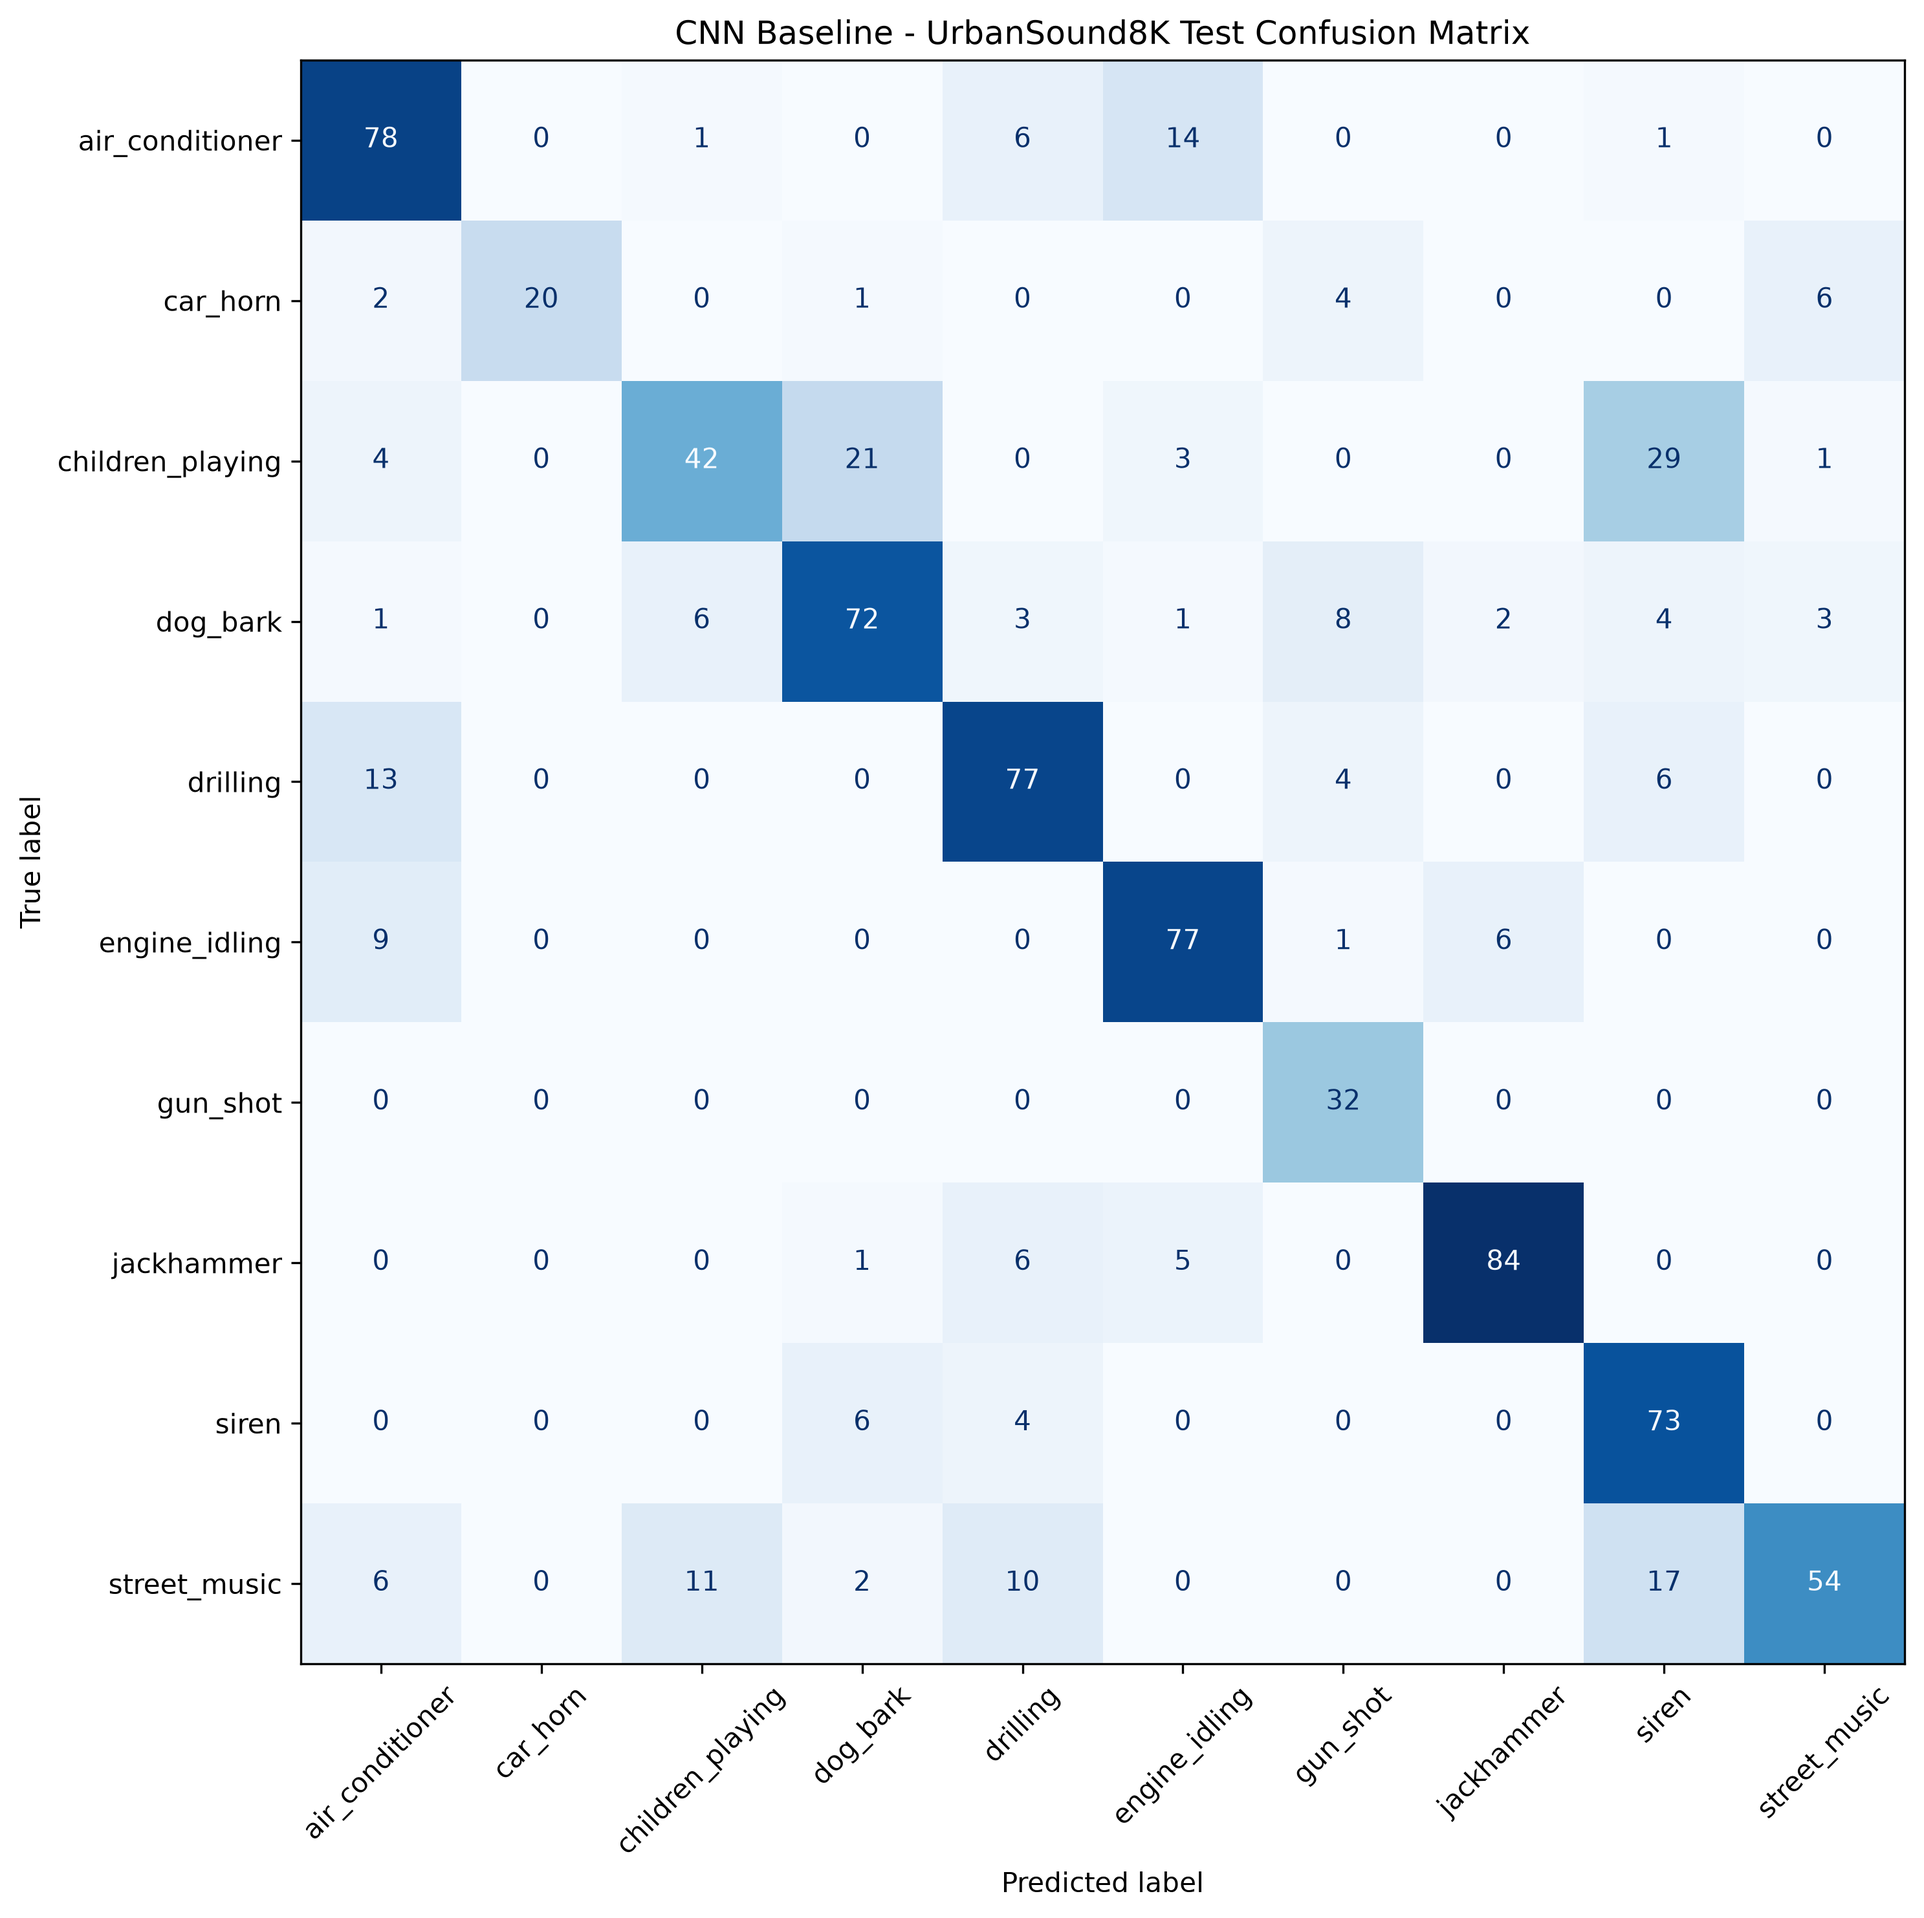
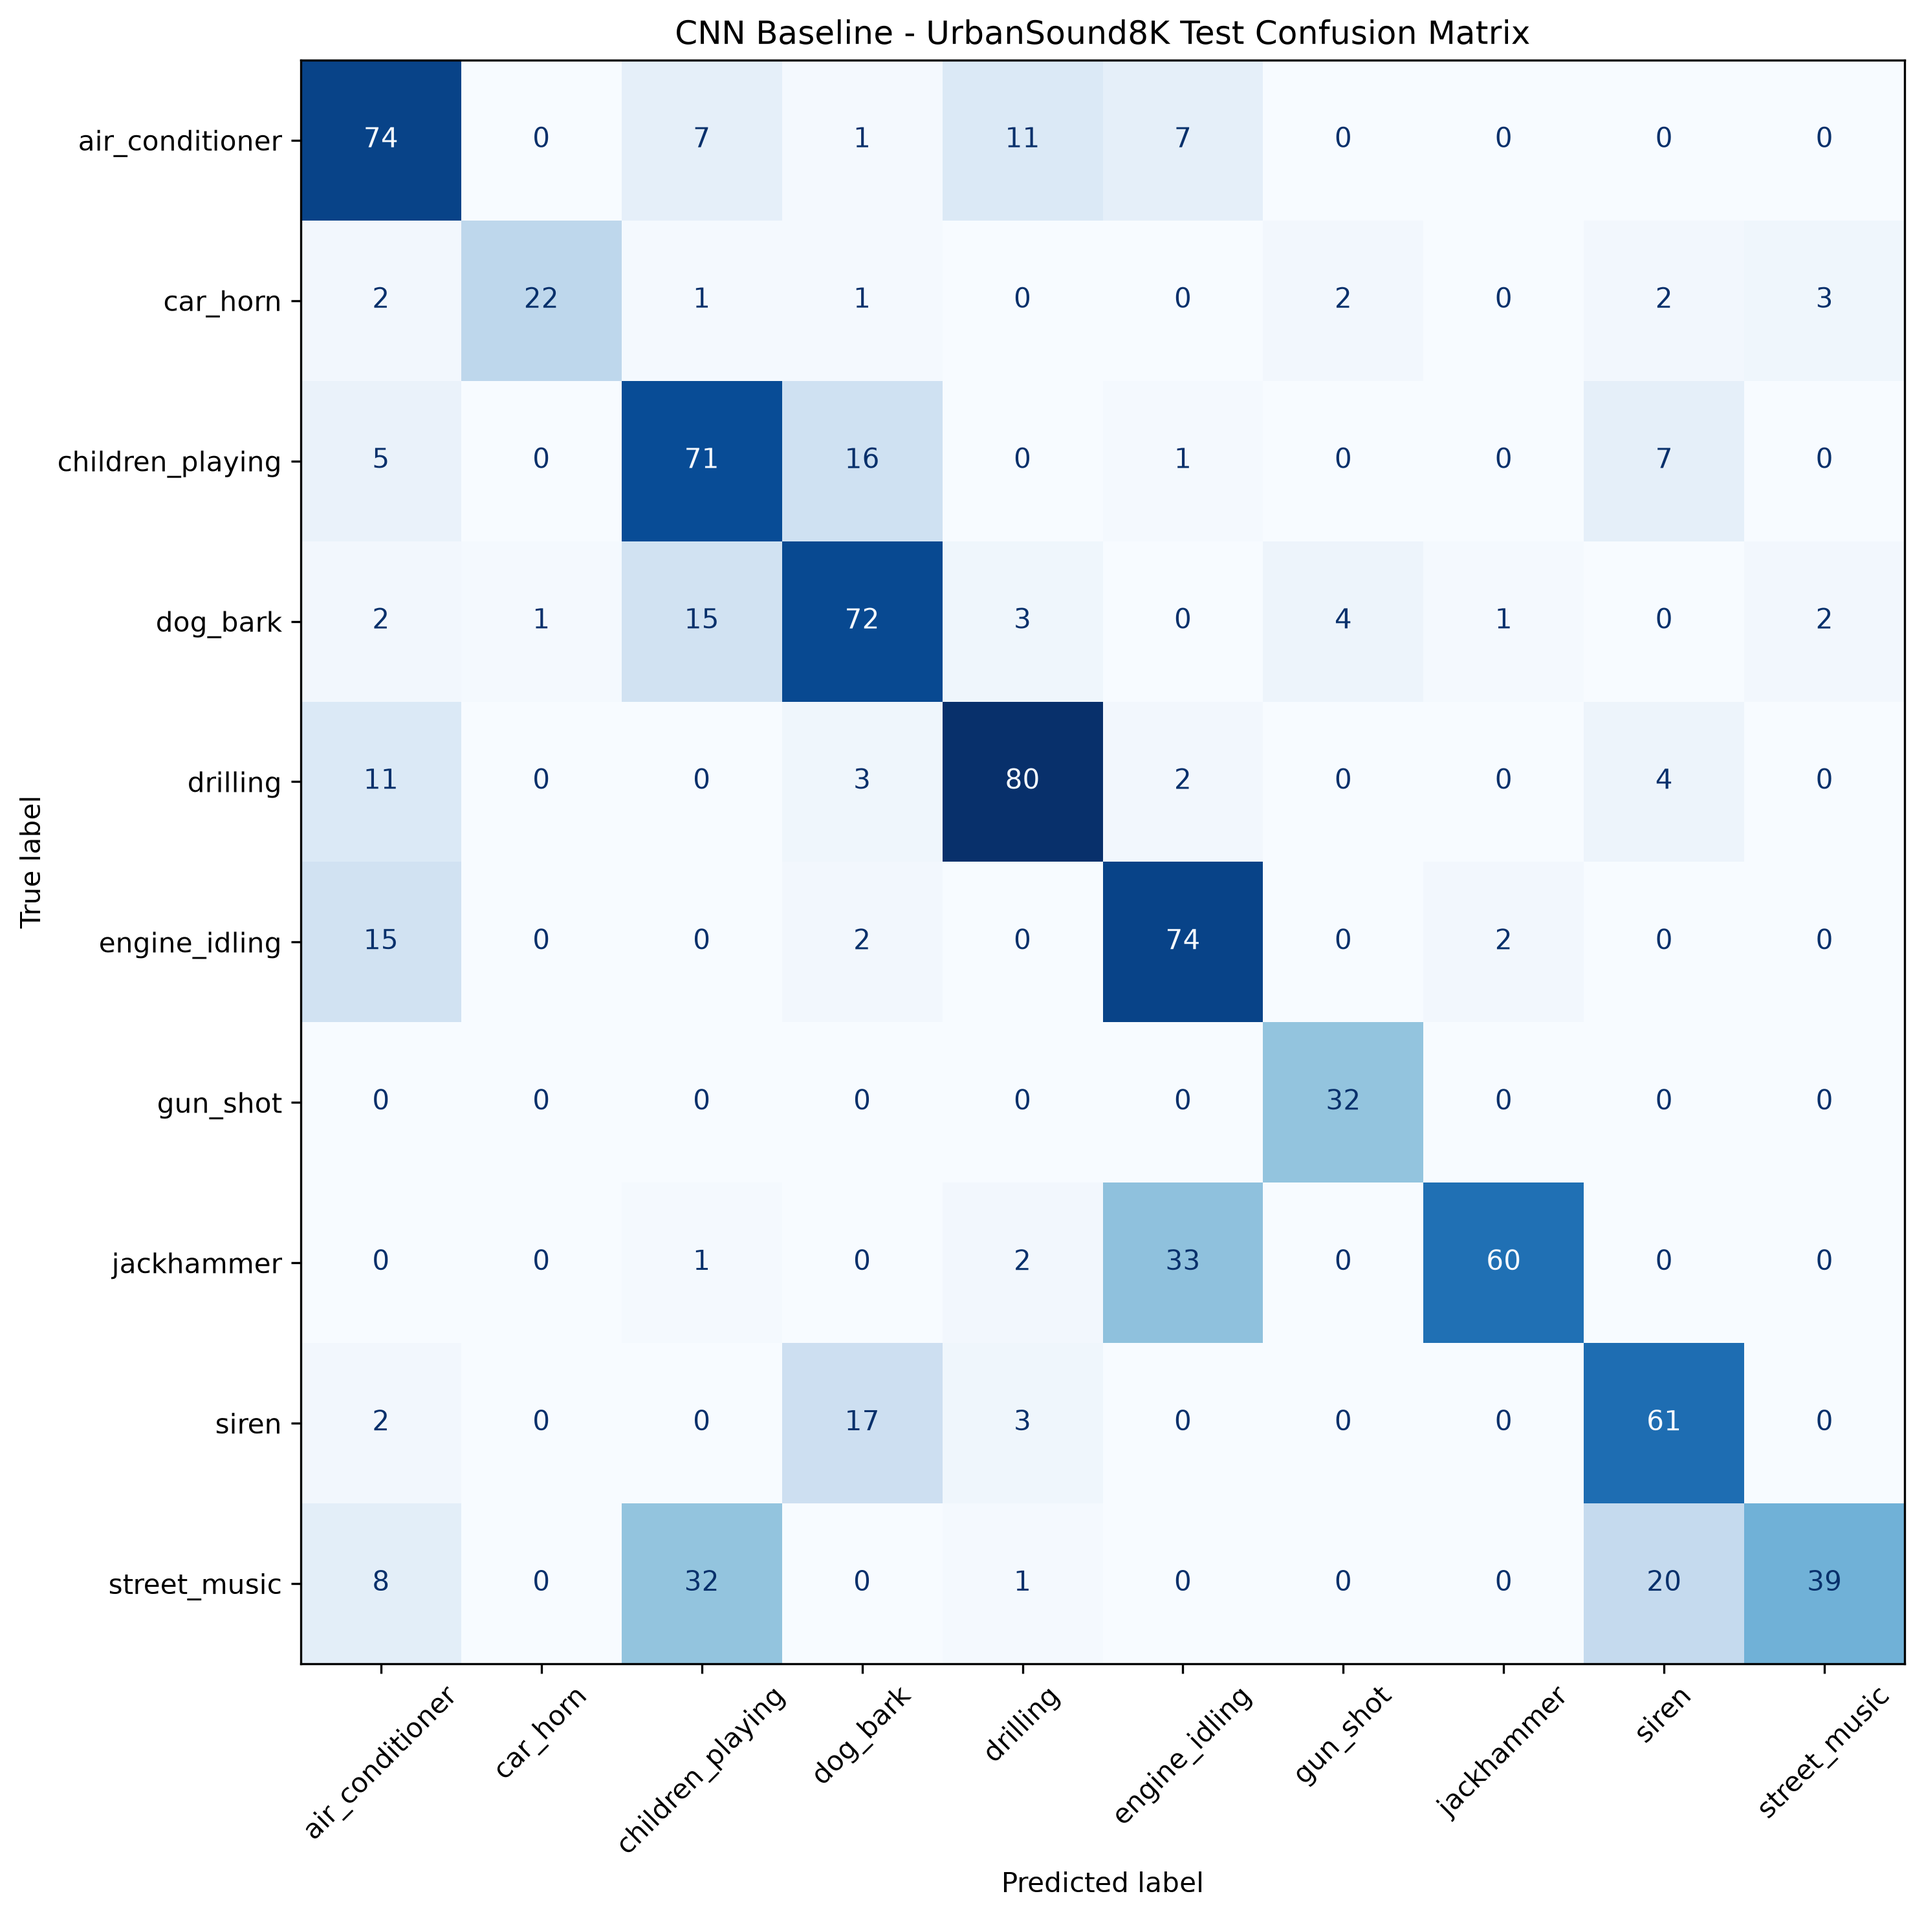
Thêm phần lưu lịch sử và vẽ biểu đồ Learning Curves

diff --git a/src/plot_history.py b/src/plot_history.py
@@ -1,0 +1,90 @@
+import json
+from pathlib import Path
+
+import matplotlib.pyplot as plt
+
+
+ROOT = Path(__file__).resolve().parents[1]
+
+HISTORY_PATH = (
+    ROOT / "outputs" / "reports" / "training_history.json"
+)
+
+FIGURE_DIR = ROOT / "outputs" / "figures"
+
+
+def main():
+
+    # Load training history
+    with open(HISTORY_PATH, "r", encoding="utf-8") as file:
+        history = json.load(file)
+
+    epochs = history["epoch"]
+
+    # Create figure
+    fig, axes = plt.subplots(1, 2, figsize=(14, 5))
+
+    # ==========================================
+    # Loss Curve
+    # ==========================================
+
+    axes[0].plot(
+        epochs,
+        history["train_loss"],
+        label="Train Loss",
+    )
+
+    axes[0].plot(
+        epochs,
+        history["val_loss"],
+        label="Validation Loss",
+    )
+
+    axes[0].set_title("Training and Validation Loss")
+    axes[0].set_xlabel("Epoch")
+    axes[0].set_ylabel("Loss")
+    axes[0].legend()
+    axes[0].grid(True)
+
+    # ==========================================
+    # Accuracy Curve
+    # ==========================================
+
+    axes[1].plot(
+        epochs,
+        history["train_accuracy"],
+        label="Train Accuracy",
+    )
+
+    axes[1].plot(
+        epochs,
+        history["val_accuracy"],
+        label="Validation Accuracy",
+    )
+
+    axes[1].set_title("Training and Validation Accuracy")
+    axes[1].set_xlabel("Epoch")
+    axes[1].set_ylabel("Accuracy")
+    axes[1].legend()
+    axes[1].grid(True)
+
+    # Save figure
+    FIGURE_DIR.mkdir(parents=True, exist_ok=True)
+
+    figure_path = FIGURE_DIR / "cnn_learning_curves.png"
+
+    fig.tight_layout()
+
+    fig.savefig(
+        figure_path,
+        dpi=300,
+        bbox_inches="tight",
+    )
+
+    plt.close(fig)
+
+    print("Learning curves saved at:", figure_path)
+
+
+if __name__ == "__main__":
+    main()

diff --git a/src/train.py b/src/train.py
@@ -1,6 +1,7 @@
 
 from pathlib import Path
 
+import json
 import torch
 from torch import nn
 from torch.optim import Adam
@@ -26,6 +27,8 @@ from src.utils import set_seed
 ROOT = Path(__file__).resolve().parents[1]
 CHECKPOINT_DIR = ROOT / "outputs" / "checkpoints"
 BEST_MODEL_PATH = CHECKPOINT_DIR / "best_cnn.pth"
+REPORT_DIR = ROOT / "outputs" / "reports"
+HISTORY_PATH = REPORT_DIR / "training_history.json"
 
 
 # ==========================================
@@ -152,6 +155,16 @@ def main():
     best_val_loss = float("inf")
     epochs_without_improvement = 0
 
+    # Store metrics for every epoch
+    history = {
+        "epoch": [],
+        "train_loss": [],
+        "train_accuracy": [],
+        "val_loss": [],
+        "val_accuracy": [],
+        "learning_rate": [],
+    }
+
     print("\nStarting training...")
     print("=" * 60)
 
@@ -170,6 +183,16 @@ def main():
             val_loader,
             criterion,
             device,
+        )
+
+        # Record training metrics
+        history["epoch"].append(epoch)
+        history["train_loss"].append(train_loss)
+        history["train_accuracy"].append(train_acc)
+        history["val_loss"].append(val_loss)
+        history["val_accuracy"].append(val_acc)
+        history["learning_rate"].append(
+            optimizer.param_groups[0]["lr"]
         )
 
         print(
@@ -221,6 +244,18 @@ def main():
     print("Training completed.")
     print(f"Best validation loss: {best_val_loss:.4f}")
     print(f"Checkpoint saved at: {BEST_MODEL_PATH}")
+
+    # Save training history
+    REPORT_DIR.mkdir(parents=True, exist_ok=True)
+
+    with open(HISTORY_PATH, "w", encoding="utf-8") as file:
+        json.dump(
+            history,
+            file,
+            indent=4,
+        )
+
+    print(f"Training history saved at: {HISTORY_PATH}")
 
 
 if __name__ == "__main__":

diff --git a/src/test_history.py b/src/test_history.py
@@ -1,0 +1,50 @@
+import json
+from pathlib import Path
+
+
+ROOT = Path(__file__).resolve().parents[1]
+HISTORY_PATH = ROOT / "outputs" / "reports" / "training_history.json"
+
+
+def main():
+
+    if not HISTORY_PATH.is_file():
+        raise FileNotFoundError(
+            f"Training history not found: {HISTORY_PATH}"
+        )
+
+    with open(HISTORY_PATH, "r", encoding="utf-8") as file:
+        history = json.load(file)
+
+    print("=" * 60)
+    print("TRAINING HISTORY TEST")
+    print("=" * 60)
+
+    print("Total epochs:", len(history["epoch"]))
+
+    print("\nAvailable metrics:")
+
+    for key, values in history.items():
+        print(f"{key}: {len(values)} values")
+
+    print("\nLast epoch results:")
+
+    for key, values in history.items():
+        print(f"{key}: {values[-1]}")
+
+    # Validate history consistency
+    lengths = [len(values) for values in history.values()]
+
+    assert len(set(lengths)) == 1, (
+        "History arrays have inconsistent lengths!"
+    )
+
+    assert len(history["epoch"]) > 0, (
+        "Training history is empty!"
+    )
+
+    print("\nTraining history test passed!")
+
+
+if __name__ == "__main__":
+    main()
